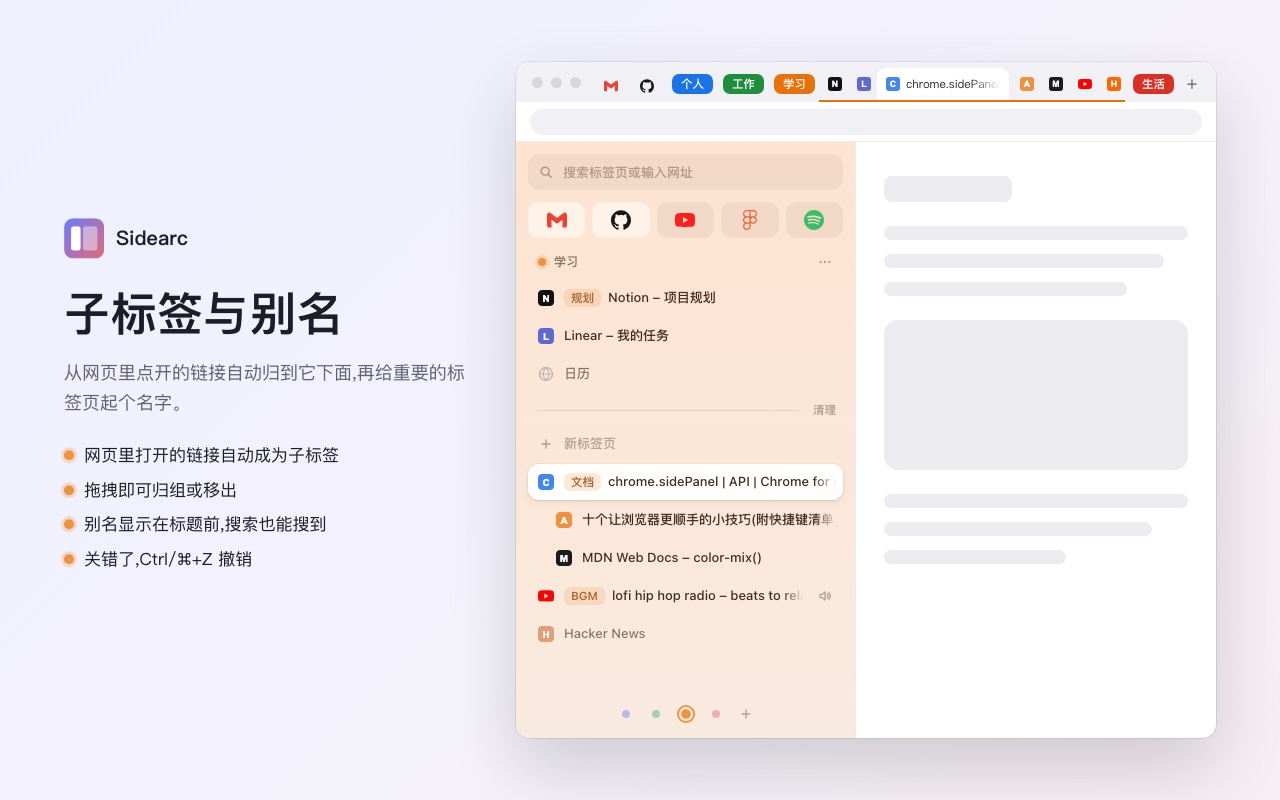
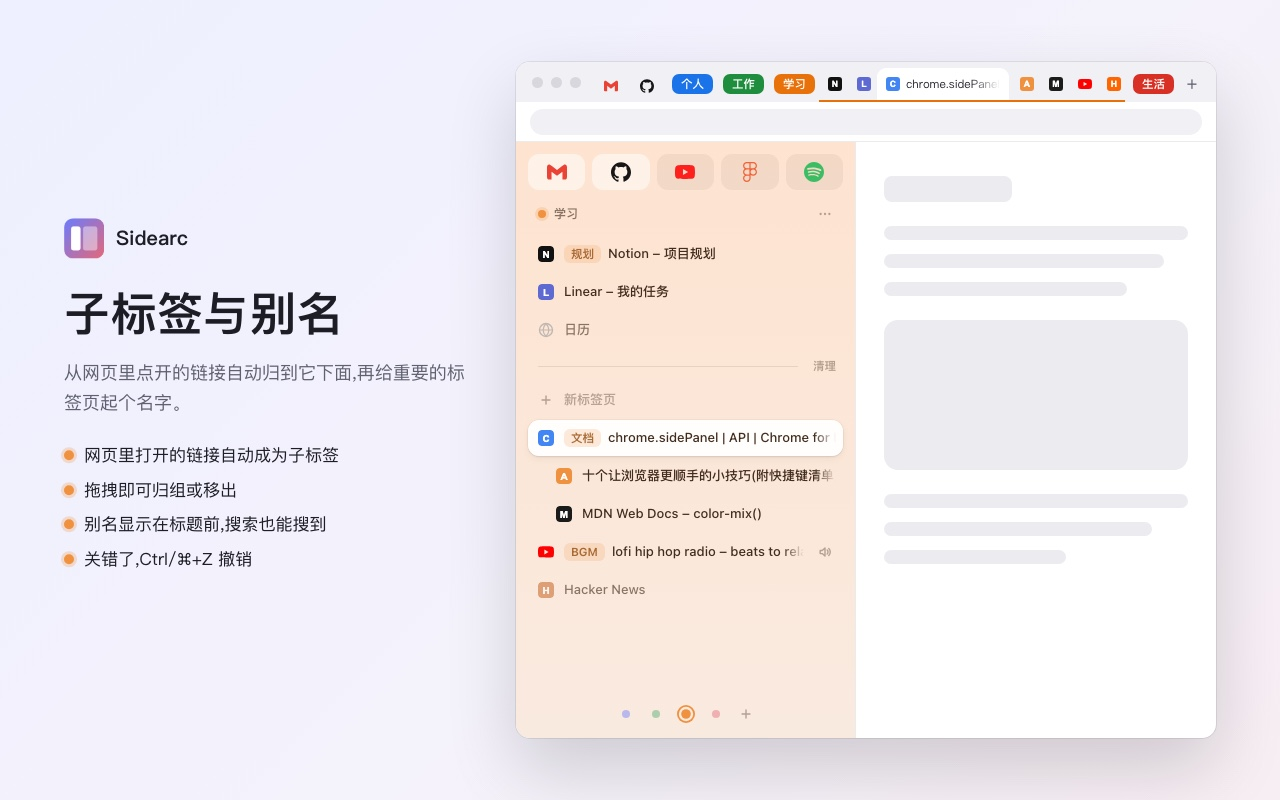
Tuck the search box away behind a magnifier
Search is rarely used, so the box is collapsed by default. A magnifier
next to the space name (shown when hovering the top) opens it, as do /
and Cmd/Ctrl+F; pressing up from the top of the list also opens it.
Esc, opening a result, or leaving it empty collapses it again; a box
with a query stays open. Store screenshots follow the new layout.

diff --git a/sidepanel.css b/sidepanel.css
@@ -49,7 +49,8 @@ svg { display: block; }
 header { padding: 12px 12px 0; }
 /* 收藏夹和空间名在顶部、不随列表滚动(参考 Arc);列表滚动后,滚上去的内容在顶端一小段里渐渐淡掉,
    不画硬边的分隔线 */
-header #favs { margin-top: 8px; }
+header #favs { transition: margin 0.18s; }
+body.searching header #favs { margin-top: 8px; }
 body.scrolled #scroll {
   -webkit-mask-image: linear-gradient(to bottom, transparent 0, #000 16px);
   mask-image: linear-gradient(to bottom, transparent 0, #000 16px);
@@ -63,8 +64,10 @@ body.scrolled #scroll {
   border-radius: 11px;
   background: var(--fill);
   color: var(--fg-3);
-  transition: background 0.15s, box-shadow 0.15s;
+  transition: background 0.15s, box-shadow 0.15s, height 0.18s, opacity 0.15s;
 }
+/* 平时收起(高度 0),body.searching 时展开(见 ui.js 的 openSearch) */
+body:not(.searching) .search { height: 0; opacity: 0; overflow: hidden; pointer-events: none; }
 .search:hover { background: var(--fill-hover); }
 .search:focus-within {
   background: var(--card);
@@ -220,6 +223,11 @@ body.scrolled #scroll {
 }
 .space-head span { flex: 0 1 auto; overflow: hidden; text-overflow: ellipsis; white-space: nowrap; }
 .space-head .ghost { margin-left: auto; }
+.space-head .ghost + .ghost { margin-left: 0; }
+body.searching #search-toggle { color: var(--accent); }
+/* 放大镜不常用,和右下角的设置按钮一样平时藏起来:鼠标移到顶部(或用键盘选中、搜索框展开着)时才渐显 */
+#search-toggle { opacity: 0; transition: background 0.15s, color 0.15s, opacity 0.2s; }
+header:hover #search-toggle, #search-toggle:focus-visible, body.searching #search-toggle { opacity: 1; }
 .badge {
   flex: none;
   display: flex;

diff --git a/src/events.js b/src/events.js
@@ -12,7 +12,7 @@ import { layoutFavs, refreshSleptLabels, refreshTrail, render, schedule } from '
 import { switchSpace } from './spaces.js';
 import { applySession, bind, findItem, followSpace, normalize, pressing, renderPending, replaceTabId, setPressing, setQuery, setState, setTabParent, setTrailOn, state, tabs, visibleTabs, windowId } from './store.js';
 import { clearTabs, closeTab, discardTabs, submitSearch } from './tabs.js';
-import { hideMenu, pushUndo, undo } from './ui.js';
+import { closeSearch, hideMenu, openSearch, pushUndo, undo } from './ui.js';
 
 const tabOf = (el) => tabs.find((t) => t.id === +el.dataset.id);
 
@@ -161,8 +161,15 @@ function bindSearch() {
       search.value = '';
       setQuery('');
       render();
+      closeSearch();
     }
   });
+  // 不管怎么进到搜索框(包括按 Tab 切进来),都展开;空着点到别处就收起来,有搜索词时留着
+  search.addEventListener('focus', () => document.body.classList.add('searching'));
+  search.addEventListener('blur', () => search.value || document.body.classList.remove('searching'));
+  // 按下时不让搜索框失焦,否则空搜索框先因失焦收起,紧接着的点击又把它展开
+  $('#search-toggle').addEventListener('mousedown', (e) => e.preventDefault());
+  $('#search-toggle').addEventListener('click', () => (document.body.classList.contains('searching') && !search.value ? closeSearch() : openSearch()));
 }
 
 function bindKeyboard() {

diff --git a/store/screenshots/make.js b/store/screenshots/make.js
@@ -153,10 +153,10 @@ function panel(t, active, dark, folder) {
   const dots = SPACE_COLORS.map((s, i) => `<button class="space-dot${i === active ? ' on' : ''}"><i style="color:${s.color}"></i></button>`).join('');
   return `<!doctype html><html style="--accent:${color};color-scheme:${dark ? 'dark' : 'light'}"><head><meta charset="utf-8">
 <link rel="stylesheet" href="sidepanel.css">${dark ? `<style>${darkVars}</style>` : ''}</head><body>
-<header><label class="search">${SEARCH}<input id="search" placeholder="${ui('searchPlaceholder')}"></label></header>
-<main id="scroll"><section id="favs" class="zone grid" style="--cols:5">${favs}</section>
-<div class="space-head"><span id="space-name">${esc(t.spaces[active])}</span><button class="ghost">${MORE}</button></div>
-<section id="pins" class="zone list">${pins}</section>
+<header><label class="search">${SEARCH}<input id="search" placeholder="${ui('searchPlaceholder')}"></label>
+<section id="favs" class="zone grid" style="--cols:5">${favs}</section>
+<div class="space-head"><span id="space-name">${esc(t.spaces[active])}</span><button class="ghost">${MORE}</button></div></header>
+<main id="scroll"><section id="pins" class="zone list">${pins}</section>
 <div class="divider"><span></span><button class="ghost">${ui('clear')}</button></div>
 <button class="row new">${PLUS}<span class="title">${ui('newTab')}</span></button>
 <section id="tabs" class="zone list">${tabs}</section></main>

diff --git a/src/keys.js b/src/keys.js
@@ -3,7 +3,7 @@
 // 鼠标一动就收起选中框;重画后按 kind + id 找回原来的项,找不到(比如刚关掉)就落在同一位置附近的项上。
 
 import { $ } from './dom.js';
-import { hideMenu } from './ui.js';
+import { hideMenu, openSearch } from './ui.js';
 
 let cursor = null; // { kind, id, index }
 
@@ -102,7 +102,7 @@ function move(dir, repeat) {
   // 最上面再往上:回到搜索框
   if (dir === 'up') {
     hideCursor();
-    return $('#search').focus();
+    return openSearch();
   }
   edge(el, dir);
 }
@@ -117,7 +117,14 @@ const DIRS = { ArrowUp: 'up', ArrowDown: 'down', ArrowLeft: 'left', ArrowRight: 
 
 export function bindKeys() {
   document.addEventListener('keydown', (e) => {
-    if (e.target.closest?.('input, textarea, dialog') || $('#dlg').open || e.metaKey || e.ctrlKey || e.altKey) return;
+    if (e.target.closest?.('input, textarea, dialog') || $('#dlg').open) return;
+    // 展开搜索:/ 或 ⌘F / Ctrl+F
+    if (e.key === '/' || ((e.metaKey || e.ctrlKey) && !e.altKey && !e.shiftKey && e.key.toLowerCase() === 'f')) {
+      e.preventDefault();
+      hideCursor();
+      return openSearch();
+    }
+    if (e.metaKey || e.ctrlKey || e.altKey) return;
     const dir = DIRS[e.key];
     if (dir) {
       e.preventDefault();

diff --git a/sidepanel.html b/sidepanel.html
@@ -36,6 +36,10 @@
         <svg viewBox="0 0 16 16" width="12" height="12" fill="none" stroke="currentColor" stroke-width="1.5" stroke-linecap="round" stroke-linejoin="round"><path d="M2 8s2.2-4 6-4 6 4 6 4-2.2 4-6 4-6-4-6-4z"/><circle cx="8" cy="8" r="1.8"/><path d="M3 13L13 3"/></svg>
         <span data-i18n="noHistoryBadge">不记录历史</span>
       </i>
+      <!-- 搜索不常用,平时收成一个放大镜:点它或按 / 、⌘F 才在顶部展开搜索框(见 ui.js 的 openSearch) -->
+      <button id="search-toggle" class="ghost" data-i18n-title="searchTip" title="搜索(/)">
+        <svg viewBox="0 0 16 16" width="14" height="14" fill="none" stroke="currentColor" stroke-width="1.7" stroke-linecap="round"><circle cx="7" cy="7" r="4.5"/><path d="M10.5 10.5L14 14"/></svg>
+      </button>
       <button id="space-menu" class="ghost" data-i18n-title="spaceSettings" title="空间设置">
         <svg viewBox="0 0 16 16" width="14" height="14" fill="currentColor"><circle cx="3" cy="8" r="1.3"/><circle cx="8" cy="8" r="1.3"/><circle cx="13" cy="8" r="1.3"/></svg>
       </button>

diff --git a/src/tabs.js b/src/tabs.js
@@ -6,7 +6,7 @@ import { canDiscard, toUrl } from './logic.js';
 import { KEY, MSG } from './protocol.js';
 import { render, schedule } from './render.js';
 import { listedTabs, query, replaceTabId, setQuery, setRenderHeld, setTabAlias, setTabParent, state, subtreeIds, tabAlias, tabParent, tabs, tabSpace, windowId } from './store.js';
-import { ask, pushUndo, toast } from './ui.js';
+import { ask, closeSearch, pushUndo, toast } from './ui.js';
 
 // 休眠:让 Chrome 回收这些标签页(页面从内存里卸掉,标签还在,点回去会重新加载)。当前标签页不能回收,会跳过
 export async function discardTabs(list) {
@@ -136,4 +136,5 @@ export async function submitSearch(force) {
   $('#search').value = '';
   setQuery('');
   render();
+  closeSearch();
 }

diff --git a/src/ui.js b/src/ui.js
@@ -147,3 +147,15 @@ export function ask(title, fields, color, okLabel = t('save')) {
     Object.values(inputs)[0]?.select();
   });
 }
+
+// 搜索框平时收起来(顶部只有空间名那一行的放大镜),要用时展开并聚焦。
+// 框里还有搜索词时不收,免得过滤着的列表突然没了来由
+export function openSearch() {
+  document.body.classList.add('searching');
+  $('#search').focus();
+}
+export function closeSearch() {
+  if ($('#search').value) return;
+  document.body.classList.remove('searching');
+  $('#search').blur();
+}

diff --git a/src/i18n.js b/src/i18n.js
@@ -9,6 +9,7 @@ const MESSAGES = {
   zh: {
     // 常驻界面
     searchPlaceholder: '搜索标签页或输入网址',
+    searchTip: '搜索(/)',
     noHistoryBadge: '不记录历史',
     noHistoryBadgeTip: '此空间不记录浏览历史',
     spaceSettings: '空间设置',
@@ -145,6 +146,7 @@ const MESSAGES = {
 
   en: {
     searchPlaceholder: 'Search tabs or enter a URL',
+    searchTip: 'Search (/)',
     noHistoryBadge: 'No history',
     noHistoryBadgeTip: "This space doesn't keep browsing history",
     spaceSettings: 'Space settings',

diff --git a/README.md b/README.md
@@ -30,7 +30,7 @@ Arc 风格的 Chrome 侧边标签栏。基于 Manifest V3 和 `chrome.sidePanel`
 - **别名**:右键标签页或固定项设置,显示在标题左侧,搜索也会匹配。
 - **相同地址只开一份**:新开的标签页如果和本窗口同一个空间里已有的标签页地址相同(忽略 `#` 锚点),会直接切到已有的那个并关掉新开的;如果地址和某个还没打开的收藏或本空间的固定标签相同,新开的标签页会直接成为它的标签页,显示在收藏夹或固定标签里。Chrome 自带的「复制标签页」和恢复关闭的标签页不受影响。从网页里特意新开的标签页(`Ctrl/⌘+点击`、鼠标中键、在新标签页打开的链接)不合并,地址重复也照样单独打开。
 - **足迹**:最近离开的 3 个标签页左边有一道主题色竖条(收藏在图标下面一道短横线),每道线各自倒计时 10 分钟,从两头往中间缩短、同时变淡,到时间就消失,方便找回刚才在看的页面。可以在右下角的设置里关掉。
-- **搜索栏**:输入即过滤;回车跳到第一个匹配项,没有匹配时打开网址或用默认搜索引擎搜索。
+- **搜索**:平时收成空间名右边的放大镜(鼠标移到顶部时出现),点它或按 `/`、`Ctrl/⌘+F` 展开;输入即过滤;回车跳到第一个匹配项,没有匹配时打开网址或用默认搜索引擎搜索。
 - **批量关闭**:「清理」一键关闭当前空间里除当前页以外的未固定标签页;右键标签页可「关闭下方标签页」。
 
 ### 收藏夹、固定标签与空间
@@ -71,8 +71,9 @@ Chrome 的侧边栏默认在右侧。想让它像 Arc 一样在左边,打开 `ch
 | --- | --- | --- |
 | 打开 / 关闭侧边栏 | `Alt+S` | `⌥ Option+S` |
 | 撤销(焦点在侧边栏时) | `Ctrl+Z` | `⌘+Z` |
+| 展开搜索 | `/` 或 `Ctrl+F` | `/` 或 `⌘+F` |
 | 搜索栏:跳过匹配项,直接打开网址或搜索 | `Ctrl+回车` | `⌘+回车` |
-| 搜索栏:清空 | `Esc` | `Esc` |
+| 搜索栏:清空并收起 | `Esc` | `Esc` |
 | 键盘选择:移动(从当前页面开始;在搜索栏里按 ↓ 从第一项开始) | `↑` `↓` `←` `→` | `↑` `↓` `←` `→` |
 | 键盘选择:打开 / 关闭 / 右键菜单 | `Enter` / `Delete` / `Shift+F10` | `Enter` / `Delete` / `Shift+F10` |
 | 键盘选择:文件夹展开 / 收起 | `→` / `←` | `→` / `←` |

diff --git a/README.en.md b/README.en.md
@@ -29,7 +29,7 @@ See [Shortcuts](#shortcuts) for keyboard shortcuts.
 - **Aliases**: give a tab or pinned item your own short name, shown before the title and matched by search.
 - **No duplicate tabs**: opening an address that is already open in the current space switches to the existing tab instead. Opening the address of a favorite or pinned tab that isn't open yet opens it as that favorite or pinned tab. Tabs you deliberately open in a new tab (`Ctrl/⌘+click`, middle-click) are left alone.
 - **Footprints**: the last 3 tabs you left get a theme-colored bar on the left (a short line under the icon for favorites) that shrinks toward its middle and fades over 10 minutes, so you can find your way back. Turn it off in Settings at the bottom right.
-- **Search box**: type to filter; Enter jumps to the first match, or opens the URL / searches with your default engine.
+- **Search**: tucked away as a magnifier next to the space name that appears when you hover the top — click it or press `/` or `Ctrl/⌘+F` to open; type to filter; Enter jumps to the first match, or opens the URL / searches with your default engine.
 - **Close in bulk**: "Clear" closes every unpinned tab in the current space except the active one; right-click a tab to close all tabs below it.
 
 ### Favorites, pinned tabs and spaces
@@ -67,8 +67,9 @@ Requires Chrome 116 or later.
 | --- | --- | --- |
 | Toggle the sidebar | `Alt+S` | `⌥ Option+S` |
 | Undo (sidebar focused) | `Ctrl+Z` | `⌘+Z` |
+| Open search | `/` or `Ctrl+F` | `/` or `⌘+F` |
 | Search box: skip matches, open the URL or search | `Ctrl+Enter` | `⌘+Enter` |
-| Search box: clear | `Esc` | `Esc` |
+| Search box: clear and close | `Esc` | `Esc` |
 | Keyboard cursor: move (starts from the current page; ↓ in the search box starts from the top) | `↑` `↓` `←` `→` | `↑` `↓` `←` `→` |
 | Keyboard cursor: open / close / context menu | `Enter` / `Delete` / `Shift+F10` | `Enter` / `Delete` / `Shift+F10` |
 | Keyboard cursor: expand / collapse a folder | `→` / `←` | `→` / `←` |
